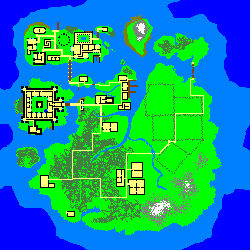
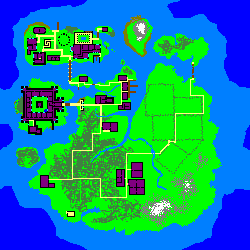
Added roofs, with corresponding fire/dragon behavior

diff --git a/Cell.py b/Cell.py
@@ -19,6 +19,7 @@ class Cell:
         self.temperature = 20
         self.fireignitechance = 0
         self.fireoutchance = 1
+        self.hasroof = False
         if groundcolor == BLACK:
             self.image = images.Wall
             self.transparent = False
@@ -87,7 +88,7 @@ class Cell:
             self.solid = False
             self.difficulty = 8
             self.name = "forest"
-            self.fireignitechance = 0.18
+            self.fireignitechance = 0.5
             self.fireoutchance = 0.1
             self.top = True
         elif groundcolor == DARKYELLOW:
@@ -102,6 +103,15 @@ class Cell:
             self.solid = False
             self.difficulty = 1
             self.name = "paving"
+        elif groundcolor == DARKPINK:
+            self.image = images.Floor
+            self.transparent = True
+            self.solid = False
+            self.difficulty = 1
+            self.name = "floor"
+            self.fireignitechance = 0.18
+            self.fireoutchance = 0.02
+            self.hasroof = True
         else:
             raise Exception("Unknown map color")
 
@@ -133,6 +143,7 @@ class Cell:
         if not self.destructable:
             return False
         self.damaged = True
+        self.hasroof = False
         self.name = "shattered debris"
         self.collectableitem = None
         self.top = False

diff --git a/World.py b/World.py
@@ -31,7 +31,7 @@ class World:
                     break
             return created
 
-        self.bears = placeBears(int(self.cellmap.size[0] * self.cellmap.size[1]/2000))
+        self.bears = placeBears(int(self.cellmap.size[0] * self.cellmap.size[1]/3000))
 
         def placeDragons(number):
             '''Randomly add dragons to the map'''
@@ -40,7 +40,7 @@ class World:
                 pos = (random.randint(0, self.cellmap.size[0]-1), random.randint(0, self.cellmap.size[1]-1))
                 created.append(Dragon(pos))
             return created
-        self.dragons = placeDragons(int(self.cellmap.size[0] * self.cellmap.size[1]/4000))
+        self.dragons = placeDragons(int(self.cellmap.size[0] * self.cellmap.size[1]/10000))
 
     def moveplayer(self, x, y):
         '''Move the player by (x, y), move other fauna, update world surface around player'''

diff --git a/Dragon.py b/Dragon.py
@@ -36,7 +36,7 @@ class Dragon:
                         cellmap.ignite(tile, True)
                     break
 
-        if not cellmap[playerpos].top and random.random() < Dragon.speed:
+        if not cellmap[playerpos].top and not cellmap[playerpos].hasroof and random.random() < Dragon.speed:
             offset = tileoffset(self.position, playerpos, cellmap.size)
             if offset[0]**2 + offset[1]**1 <= Dragon.detectionrange**2:
                 newdirection = list(self.direction)

diff --git a/images.py b/images.py
@@ -14,6 +14,7 @@ Water = pygame.image.load("tiles/Water.png").convert()
 DeepWater = pygame.image.load("tiles/DeepWater.png").convert()
 Rock = pygame.image.load("tiles/Rock.png").convert()
 Paving = pygame.image.load("tiles/Paving.png").convert()
+Floor = pygame.image.load("tiles/Floor.png").convert()
 Grass = pygame.image.load("tiles/Grass.png").convert()
 Marsh = pygame.image.load("tiles/Marsh.png").convert()
 Wall = pygame.image.load("tiles/Wall.png").convert()

diff --git a/colors.py b/colors.py
@@ -13,3 +13,4 @@ DARKYELLOW = (127, 127, 0)
 BROWN = (127, 64, 0)
 DARKGREEN = (64, 127, 64)
 BLUEGREY = (64, 127, 127)
+DARKPINK = (128, 0, 128)
